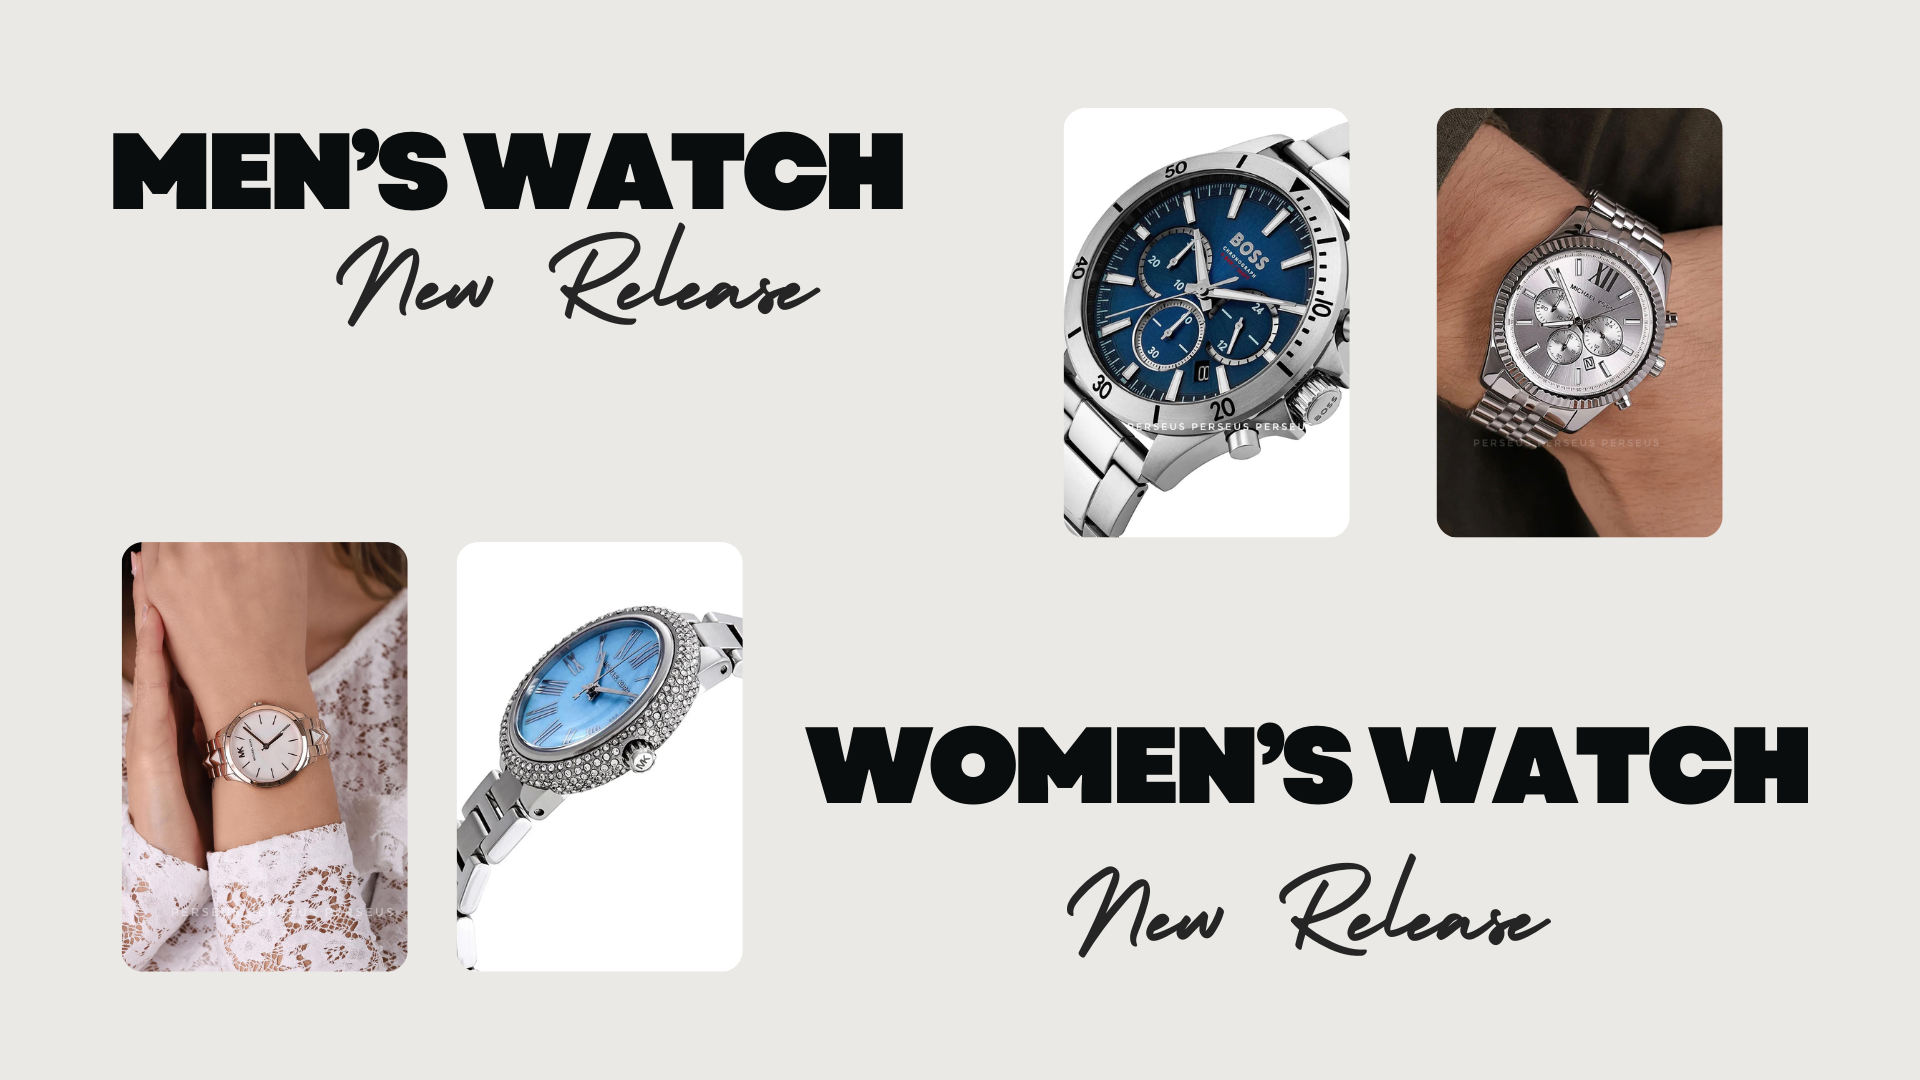
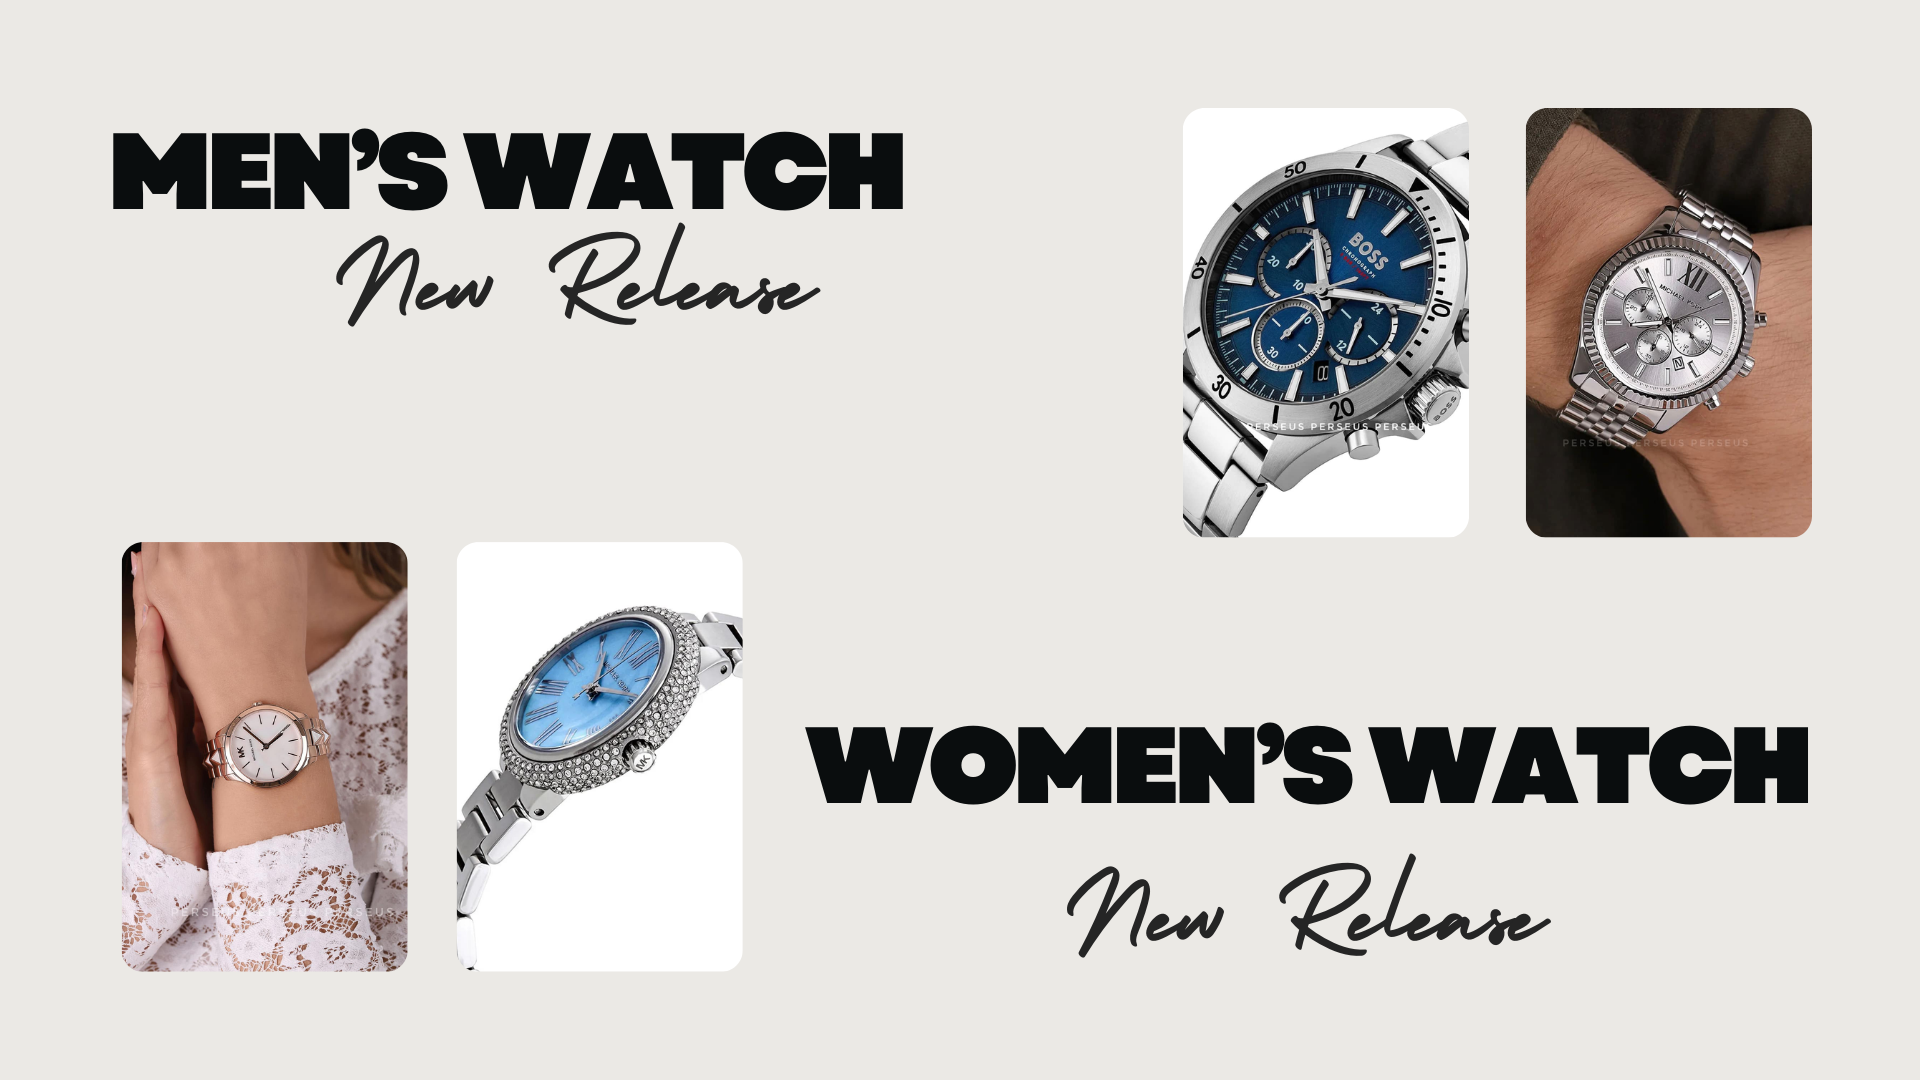
PERFECT ALIGNMENT

Changed region(s): [[0.5312, 0.0917, 0.9688, 0.5194]]

diff --git a/sample3.html b/sample3.html
@@ -75,20 +75,16 @@
                             <source src="/men.mp4" type="video/mp4">
                         </video>
                         <br>
-                        <h2>For Him</h2>
             </div>
             <div class="her">
                 <video width="100%" autoplay loop muted>
                     <source src="/women.mp4" type="video/mp4">
                 </video>
                 <br>
-                <h2>For Her</h2>
             </div>
         </div>        
     </section>
 <hr>
-
-    
     <section class="gallery">
         <h1>New Watch Collection!</h1>
         
@@ -140,18 +136,6 @@
             <h6>Stainless Steel</h6>
         </div>
     </section> 
-<hr>
-    <section class="lto">
-        <h2>Limited Time Offers</h2>
-        <hr>
-        <div class="lto1" id="c1">
-            <p>Thumbnail + Description + Offer Price</p>
-            
-        </div>
-        <div class="lto1" id="c2">
-            <p>Thumbnail + Description + Offer Price</p>
-        </div>
-    </section>
 
     <hr>
 
@@ -167,7 +151,17 @@
             </div>
     </section>
 <hr>
-    
+    <section class="lto">
+        <h2>Limited Time Offers</h2>
+        <hr>
+        <div class="lto1" id="c1">
+            <p>Thumbnail + Description + Offer Price</p>
+            
+        </div>
+        <div class="lto1" id="c2">
+            <p>Thumbnail + Description + Offer Price</p>
+        </div>
+    </section>
 
     <section class="faq-section">
         <h2>Frequently Asked Questions</h2>
@@ -199,38 +193,6 @@
         <button>Subscribe</button>
     </section>
     
-
-    <footer>
-        <div class="footer-content">
-            <div class="footer-section about">
-                <h3>About Perseus Bangladesh</h3>
-                <p>Perseus Bangladesh is your trusted destination for authentic luxury and everyday watches for both men and women. We provide high-quality, stylish, and 100% genuine timepieces that complement your personality and lifestyle.</p>
-            </div>
-            <div class="footer-section links">
-                <h3>Quick Links</h3>
-                <ul>
-                    <li><a href="#">Home</a></li>
-                    <li><a href="#">Products</a></li>
-                    <li><a href="#">About Us</a></li>
-                    <li><a href="#">Contact Us</a></li>
-                    <li><a href="#">Reviews</a></li>
-                </ul>
-            </div>
-            <div class="footer-section contact">
-                <h3>Contact Us</h3>
-                <p>Email: info@perseusbd.com</p>
-                <p>Phone: +8801848520561</p>
-                <div class="social-icons">
-                    <a href="https://facebook.com/perseusbangladesh" target="_blank"><i class="fab fa-facebook-f"></i></a>
-                    <a href="https://instagram.com/perseus.bd/" target="_blank"><i class="fab fa-instagram"></i></a>
-                    <a href="https://wa.me/+8801848520561" target="_blank"><i class="fab fa-whatsapp"></i></a>
-                </div>
-            </div>
-        </div>
-        <div class="footer-bottom">
-            &copy; 2023 Perseus Bangladesh | All Rights Reserved
-        </div>
-    </footer>
     
     <a href="index.html">Main Page</a>
 </div>    

diff --git a/styles3.css b/styles3.css
@@ -209,7 +209,7 @@ body {
     display: grid; 
     gap: 50px;
     padding: 70px;
-    grid-template-columns: repeat(5, 200px);
+    grid-template-columns: repeat(5, 1.5fr);
     grid-template-rows: repeat(5, 100px);
     border-color: #000000 5px solid;
     border-radius: 25px;
@@ -219,7 +219,7 @@ body {
 }
 
 .him { 
-    grid-row: 1 / 3;
+    grid-row: 1;
     grid-column: 4 / 6;
     border-radius: 25px;
     /* background-color: #433751; */
@@ -231,7 +231,7 @@ body {
 
 .her{  
     /* background-color: #2f576e; */
-    grid-row: 4 / 6;
+    grid-row: 3 / 5;
     grid-column: 1 / 3;
     opacity: 80%;
     border-radius: 25px;
